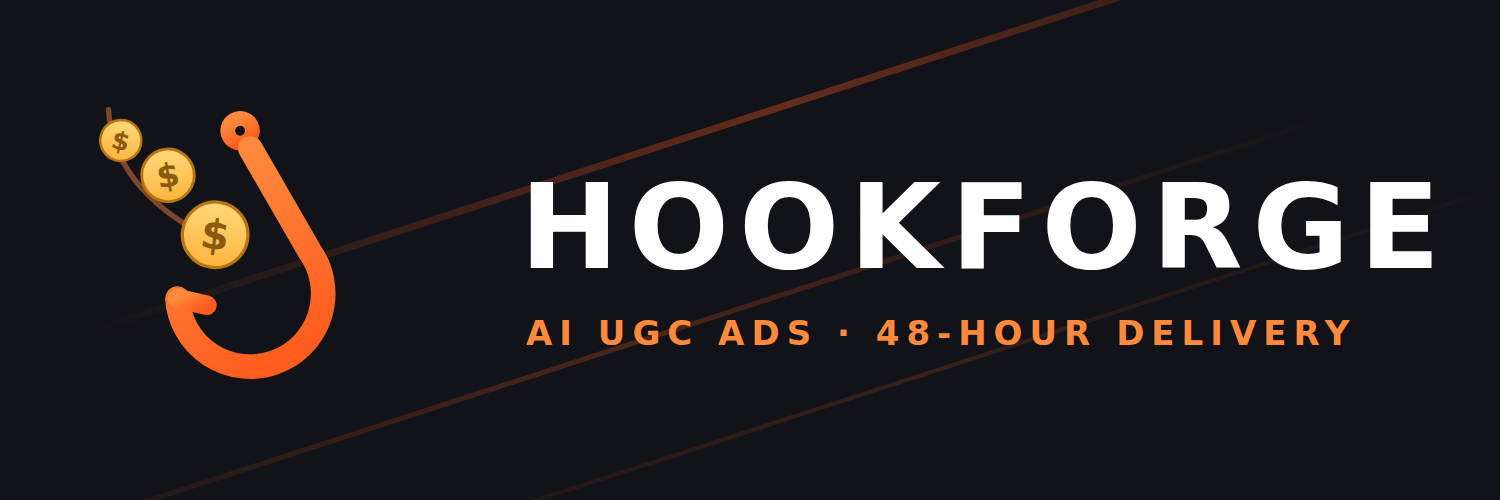
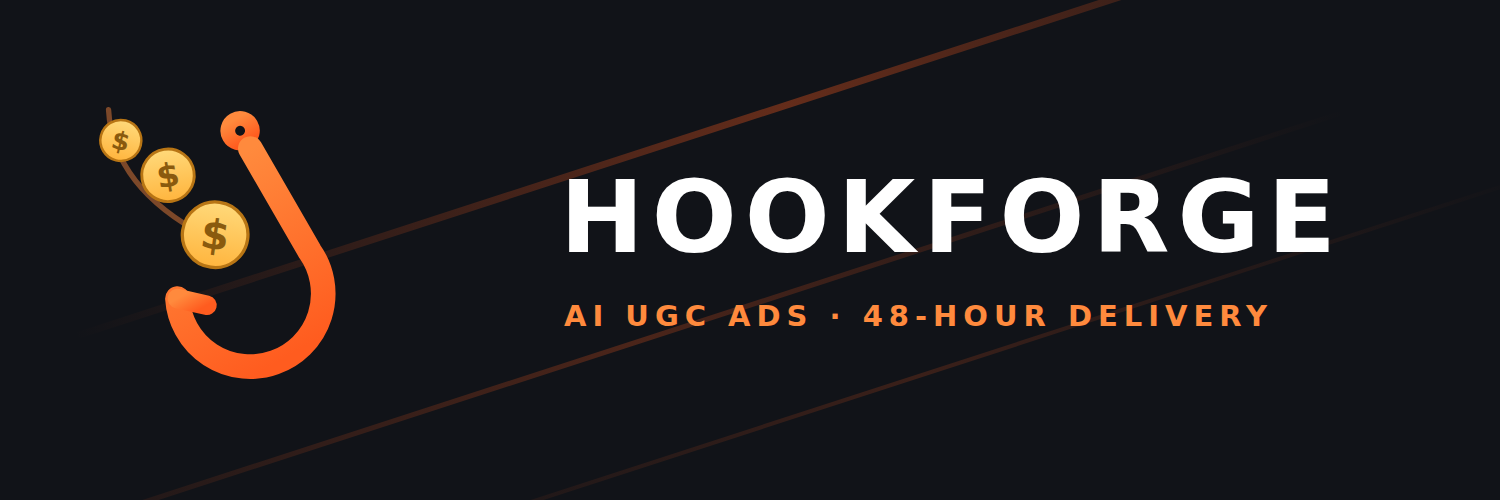
Fix header text balance (right margin restored)

Changed region(s): [[0.3373, 0.33, 0.9813, 0.54], [0.3373, 0.6, 0.92, 0.69]]

diff --git a/hookforge/brand/header.html b/hookforge/brand/header.html
@@ -54,7 +54,7 @@
   </g>
 
   <!-- wordmark -->
-  <text x="520" y="268" font-family="DejaVu Sans" font-weight="bold" font-size="118" fill="#FFFFFF" letter-spacing="10">HOOKFORGE</text>
-  <text x="526" y="345" font-family="DejaVu Sans" font-weight="bold" font-size="34" fill="#FF8A3D" letter-spacing="7">AI UGC ADS · 48-HOUR DELIVERY</text>
+  <text x="560" y="252" font-family="DejaVu Sans" font-weight="bold" font-size="100" fill="#FFFFFF" letter-spacing="8">HOOKFORGE</text>
+  <text x="564" y="326" font-family="DejaVu Sans" font-weight="bold" font-size="29" fill="#FF8A3D" letter-spacing="6">AI UGC ADS · 48-HOUR DELIVERY</text>
 </svg>
 </body></html>
